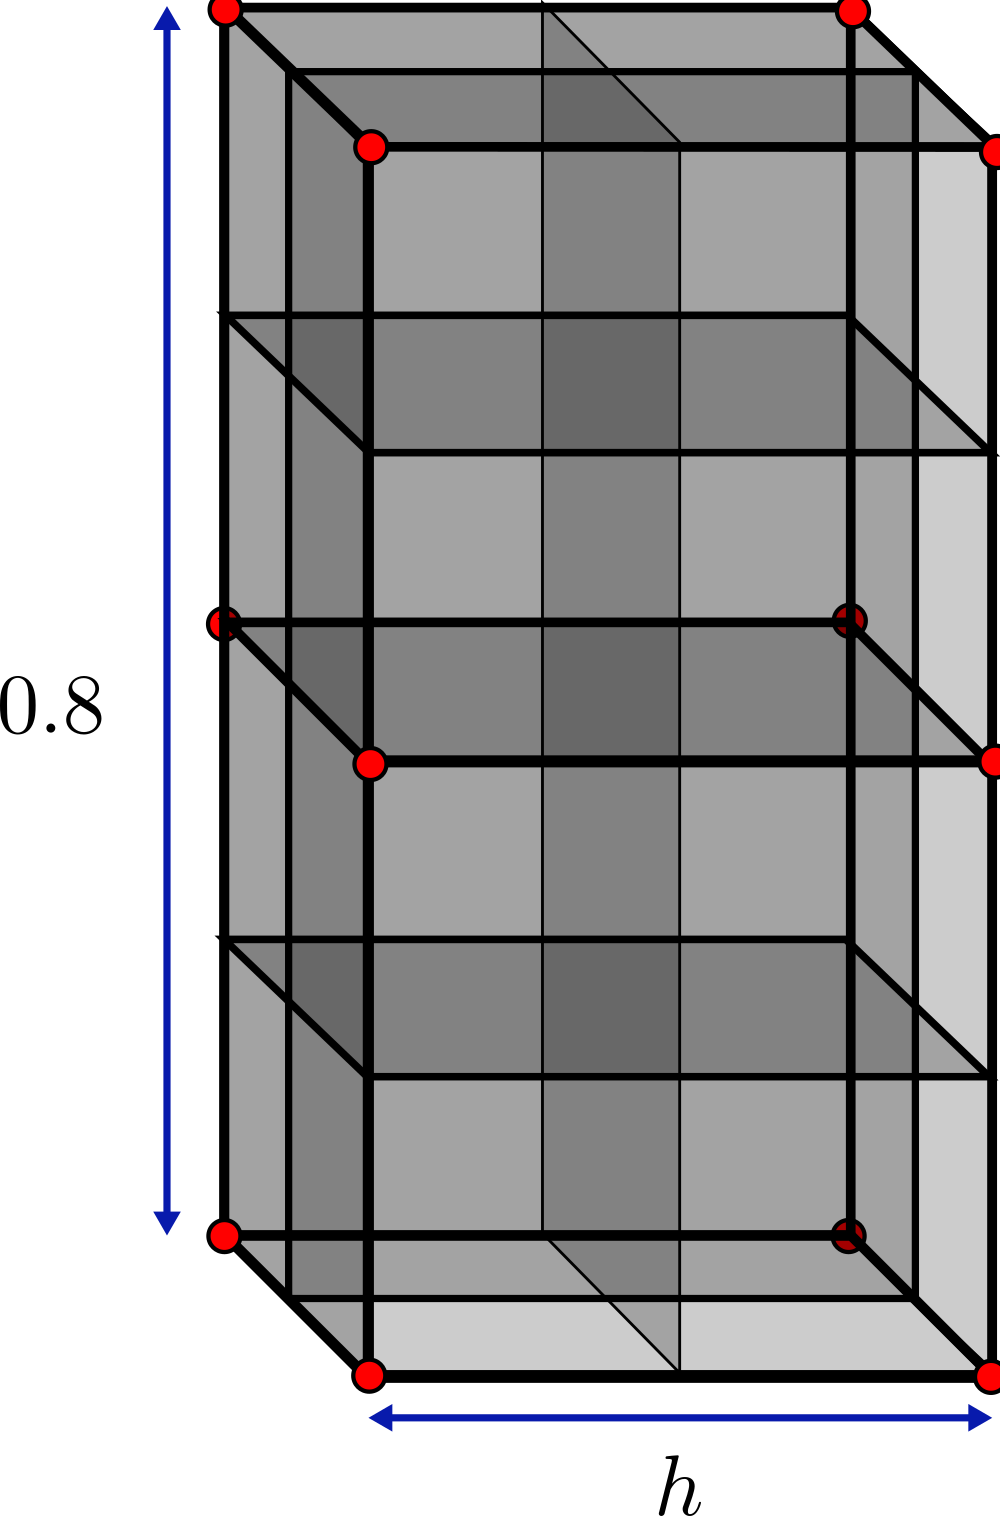
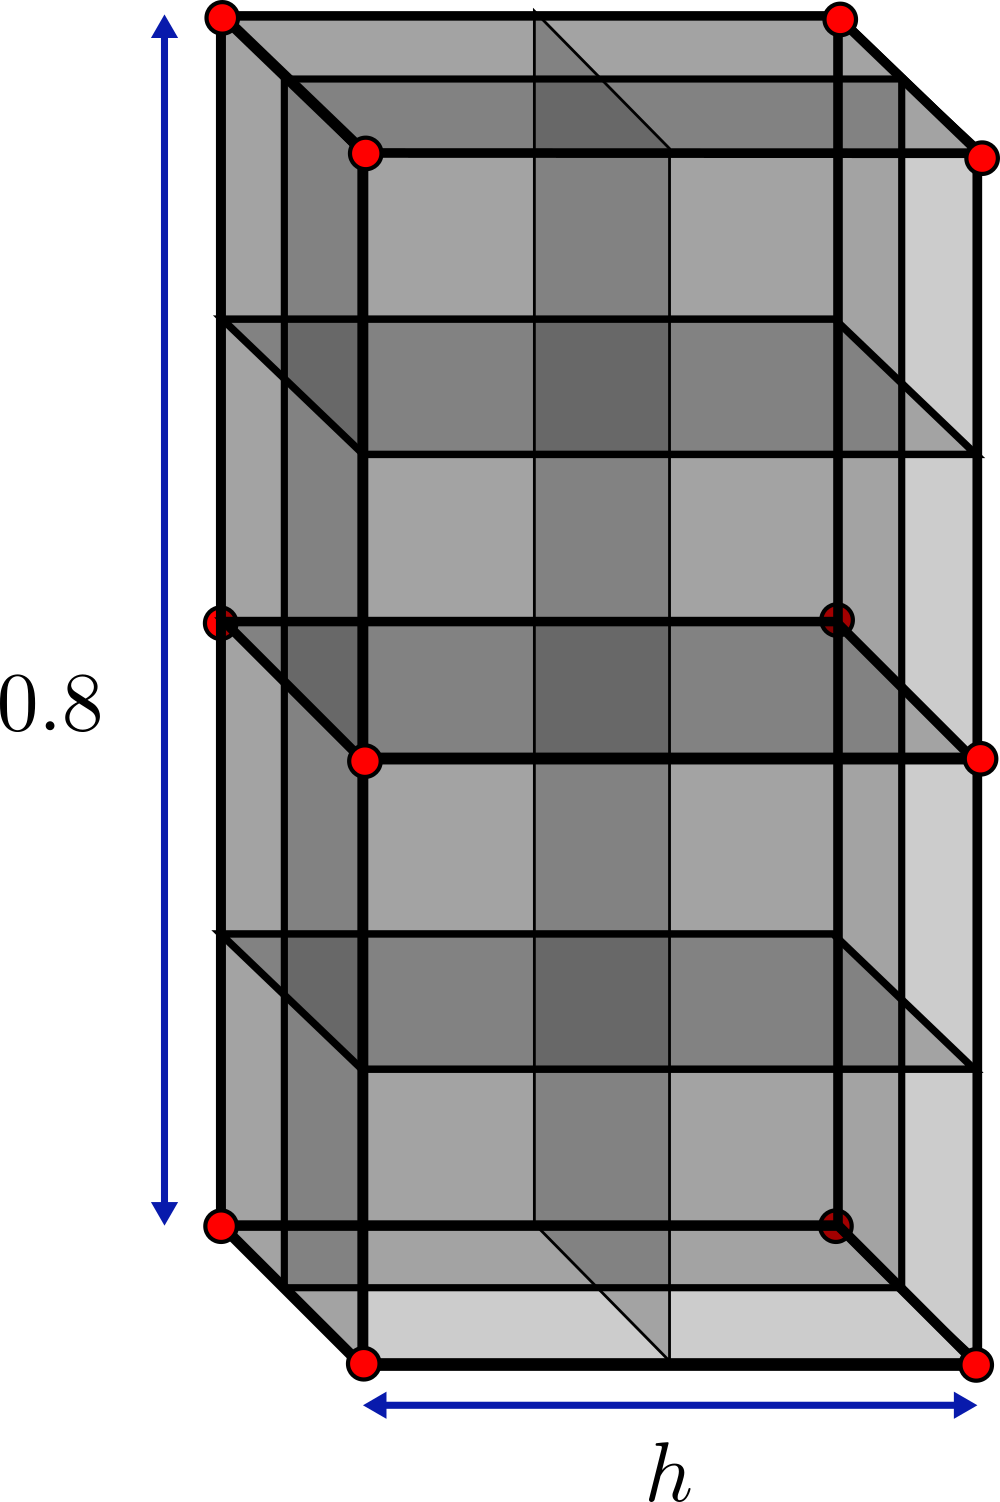
changing tutorial 1

Changed region(s): [[0.155, 0.0, 1.0, 0.9494], [0.0, 0.4288, 0.124, 0.49], [0.651, 0.9494, 0.713, 1.0]]

diff --git a/docs/docs/TutorialProblems/Tutorial_1.md b/docs/docs/TutorialProblems/Tutorial_1.md
@@ -3,12 +3,12 @@ hide:
   - toc
 ---
 
-# Tutorial 1: Self-weight column convergence
+# Tutorial 1: Self-weight column
 
 ## Introduction
-This quick start tutorial walks through the steps of running your first AMPSSIE problem. 
+This quick start tutorial walks through the steps of running your first AMPSSIE problem.
 
-The problem is a convergence analysis of a column deforming under self-weight. It is a simple problem that runs quickly and uses all components of the code that are used to create the [deformable body's equations to be solved.](../TechnicalReferences/StaticWeakForm.md)
+This tutorial analyses a column deforming under self-weight and solves the static weak-form [equations](../TechnicalReferences/StaticWeakForm.md). It is simple but introduces you to all components of the code: setting up, running and viewing the output data.
 
 This tutorial has four sections:
 
@@ -19,9 +19,7 @@ This tutorial has four sections:
 
 ## Problem description
 
-You will define the geometry, mesh, boundary conditions, material, and solver in the input file. All the inputs to the simulation are defined using the [`input_data.json` file format](../UsingTheSoftware/InputFormat.md).
-
-The values below give you a column that deforms significantly under self-weight. The deformation is large enough that the Generalised Interpolation Material Points (GIMPs) will traverse several elements and will interact with hanging nodes.
+You will define the geometry, mesh, boundary conditions, material, loading and solver in the input file. A reference for all input data can be found in the [`input_data.json` file format](../UsingTheSoftware/InputFormat.md).
 
 <div class="grid" markdown>
 
@@ -31,40 +29,34 @@ The values below give you a column that deforms significantly under self-weight.
 
 </div>
 
-*Figures reproduced from [@bird2026implicitoctreebasedadaptivematerial].*
+**Mesh:** The column is $0.4 \times 0.4 \times 0.8$ m see [](#fig-example-mesh).
 
-**Mesh:** Set the geometry to a $h \times h \times 0.8$ m column, i.e. $(x,y,z)\in[0,h]\times[0,h]\times[0,0.8]$ m. Start with $h = 0.4$ m. For the convergence study you will halve $h$ at each refinement step (see [](#fig-example-mesh)). The initial GIMP layout filling that mesh is shown in [](#fig-example-mesh-gimp). The element *size* $h$ is what you will plot later against the stress error:
-
-$$
-e_{\sigma} = \frac{1}{\sigma_g\, V_\Omega} \sum_{p \in P} \left| \sigma^z(z^0_p) - \sigma_p^z \right| V_p ,
-$$
-
-where:
-
-- $\sigma_g = \rho g L$ is the characteristic stress at the bottom of the domain, with $L = 0.8$ m the column height
-- $V_\Omega = L h^2$ is the total domain volume
-- $\sigma^z(z_p^0) = \rho g (L - z_p)$ is the analytical vertical stress
-- $z_p^0$ is the vertical position of the material point at time $t = 0$
-- $V_p$ is the GIMP volume
-
-**Initial GIMP distribution:** The mesh and initial GIMP distribution at $t=0$ do not normally coincide; however, for this problem the GIMPs will be distributed in the volume $V_\Omega = [0,h]\times[0,h]\times[0,0.8]$ m.
+**Initial GIMP distribution:** A $2\times2\times2$ grid of GIMPs is placed in each element; see [](#fig-example-mesh-gimp).
 
 **Boundary conditions:** Apply roller boundaries on the four sides and the base. Leave the top as a free surface. Fix every node in $x$ and $y$ so the problem stays one-dimensional.
 
 **Material:** Use a Hencky elastic model with constant parameters: Young's modulus $E = 10^3$ Pa, Poisson's ratio $\nu = 0$ and density $\rho = 50$ kg/m$^3$.
 
-These properties differ slightly from Charlton et al. [@charlton_implicit_2018] on purpose - they produce large enough deformation for GIMPs to span elements of different sizes, which is the point of the test.
-
 **Loading:** Apply gravity as a body force, $g_i = [0,\,0,\,-9.81]$ m/s$^2$.
 
 **Solver:** Use Newton-Raphson and ramp the load on incrementally over 20 load steps.
 
+**Analytical solution:** This problem has an analytical stress solution you can use to validate the numerical result:
+
+$$
+\sigma_g = \rho g (L - z_p),
+$$
+
+where:
+
+- $g = 9.81$ m/s$^2$ is the acceleration due to gravity
+- $L = 0.8$ m is the initial height of the domain
+- $z_p$ is the vertical position of the material point (m)
+
 ## Input setup
-The input file is a single JSON object - a human-readable, editable text file. The complete file for this problem can be found [here](Tutorial_1_input_data.md).
+The input file is a single JSON object - a human-readable, editable text file. The complete file for this problem can be found [`here`](Tutorial_1_input_data.md) and for all input settings see the [`input_data.json` file format](../UsingTheSoftware/InputFormat.md).
 
 This problem has six top-level sections, broken out below alongside the [Problem description](#problem-description). 
-
-Defaults (a face being free, a DOF being unconstrained, etc.) are not included in the file; only non-default settings are specified. See the [`input_data.json` file format](../UsingTheSoftware/InputFormat.md) for the full list of defaults.
 
 <div class="json-side-header">
 <div>Description</div>
@@ -77,11 +69,7 @@ Defaults (a face being free, a DOF being unconstrained, etc.) are not included i
 
 ### Mesh data
 
-The mesh matches the $h \times h \times 0.8$ m column, with $h = 0.4$ m for the first run.
-
-`dx refined` always gives the smallest elements in the domain.
-
-`Refinement type` is set to `column validation` for the bespoke refinement scheme for this problem; see [](#fig-example-mesh).
+The mesh matches the $0.4 \times 0.4 \times 0.8$ m column. The element size is defined with `dx refined` which gives the dimensions of the smallest elements.
 
 </div>
 
@@ -92,8 +80,7 @@ The mesh matches the $h \times h \times 0.8$ m column, with $h = 0.4$ m for the 
     "domain size x": 0.4,
     "domain size y": 0.4,
     "domain size z": 0.8,
-    "dx refined": 0.2,
-    "Refinement type": "column validation"
+    "dx refined": 0.4,
 }
 ```
 
@@ -107,9 +94,7 @@ The mesh matches the $h \times h \times 0.8$ m column, with $h = 0.4$ m for the 
 
 ### Initial GIMP distribution
 
-The `Initial GIMP distribution` is set to fill the whole domain and so is given the same parameters as the `Mesh data`.
-
-The default initial GIMP distribution is $2\times2\times2$ within each element. However, for this problem larger elements will have $4\times4\times4$ whilst the smaller elements have $2\times2\times2$. `Specialised distribution` is used to set up this distribution with `column validation`.
+The `Initial GIMP distribution` is set to fill the whole domain and so is given the same parameters as the `Mesh data`. The default initial GIMP distribution is a grid of 8 GIMPs, $2\times2\times2$ within each element, this is set with `number GIMP`.
 
 </div>
 
@@ -120,7 +105,7 @@ The default initial GIMP distribution is $2\times2\times2$ within each element. 
     "Initial GIMP distribution x": 0.4,
     "Initial GIMP distribution y": 0.4,
     "Initial GIMP distribution z": 0.8,
-    "Specialised distribution": "column validation"
+    "number GIMP": 2
     }
 ```
 
@@ -134,7 +119,7 @@ The default initial GIMP distribution is $2\times2\times2$ within each element. 
 
 ### Boundary conditions
 
-Rollers are applied on the four side faces and the base ($\pm x$, $\pm y$, $-z$). The top ($+z$) face is left as a free surface, which is the default and so does not appear in the file. Every node has its $x$ and $y$ degrees of freedom fixed to keep the problem one-dimensional.
+Rollers are applied on the four side faces and the base ($\pm x$, $\pm y$, $-z$). The top ($+z$) face is left as a free surface. Edges of the domain are by default free so `pos z-plane` does not appear in the file. Every node also has its $x$ and $y$ degrees of freedom fixed to keep the problem one-dimensional, the default is for the degree of freedom to be `free` so $z$ is not set.
 
 </div>
 
@@ -200,7 +185,7 @@ The self-weight load is ramped on quasi-statically over 20 increments using a Ne
 ```json
 "Solver": {
     "solve type": "static",
-    "load type": "force",
+    "load type": "body force",
     "number of increments": 20
 }
 ```
@@ -215,7 +200,7 @@ The self-weight load is ramped on quasi-statically over 20 increments using a Ne
 
 ### Output data
 
-VTU and VTK output is enabled for visualisation in [ParaView](https://www.paraview.org/) (or [VisIt](https://visit-dav.github.io/visit-website/)). The `text data` field tags the run as `column validation` for post-processing.
+VTU and VTK output is enabled for visualisation in [ParaView](https://www.paraview.org/) (or [VisIt](https://visit-dav.github.io/visit-website/)). The `text data` field outputs the vertical stress GIMP data with the deformed and initial height.
 
 </div>
 
@@ -225,7 +210,7 @@ VTU and VTK output is enabled for visualisation in [ParaView](https://www.paravi
 "Output Data": {
     "vtu data": "yes",
     "vtk data": "yes",
-    "text data": "column validation"
+    "text data": "self-weight column"
 }
 ```
 
@@ -238,12 +223,8 @@ There are several methods for [deploying](../UsingTheSoftware/DeployingTheSoftwa
 
 ## Viewing the results
 
-<div class="grid" markdown>
+The deformed column under self-weight is shown in [](#fig-gravity-displacement) at load steps 1, 10 and 20 of 20. The vertical displacement reaches its maximum at the top, as expected for a column compressed under its own weight; the stress field through the column can be compared against the analytical solution introduced above to validate the simulation.
 
-![Compression under self-weight, displacement plot of the GIMPs and mesh for steps 1, 10 and 20, of 20.](../../img/gravity_result.png){ #fig-gravity-displacement width="100%" }
+![Compression under self-weight: displacement plot of the GIMPs and mesh for steps 1, 10 and 20 of 20.](../../img/gravity_result.png){ #fig-gravity-displacement width="70%" }
 
-![Compression under self-weight, convergence of the error with mesh refinement.](../../img/convergence_gravity.png){ #fig-gravity-convergence width="100%" }
-
-</div>
-
-*Figures reproduced from [@bird2026implicitoctreebasedadaptivematerial].*
+*Figure reproduced from [@bird2026implicitoctreebasedadaptivematerial].*

diff --git a/docs/docs/TutorialProblems/TutorialProblems.md b/docs/docs/TutorialProblems/TutorialProblems.md
@@ -8,7 +8,7 @@ The recommended order is top to bottom - each tutorial reuses material settings,
 
 Quasi-static problems solved with Newton-Raphson over a small number of load increments.
 
-- **[Tutorial 1 - Self-weight column convergence](Tutorial_1.md)** - A homogeneous elastic column compressed by gravity. The simplest problem in the set: no contact, no plasticity, no adaptive refinement following a body. Exercises the static weak form, the GIMP discretisation and the convergence behaviour with mesh refinement.
+- **[Tutorial 1 - Self-weight column](Tutorial_1.md)** - A homogeneous elastic column compressed by gravity. The simplest problem in the set: no contact, no plasticity, no adaptive refinement following a body. Exercises the static weak form and the GIMP discretisation, with an analytical stress solution to validate the numerical result against.
 - **[Tutorial 2 - Compaction via a rigid body](Tutorial_2.md)** - A cube compressed by a rigid plate through 25% of its height. Introduces normal-contact penalty enforcement and the hanging-node formulation around the contact face, with elasticity holding everything else constant.
 - **[Tutorial 3 - Vertical penetration (CPT)](Tutorial_3.md)** - A quarter-symmetric cone penetration test in dry sand. Adds adaptive octree refinement that follows the cone, frictional contact and a Hencky hyperelastic-perfectly plastic constitutive model calibrated to centrifuge data.
 - **[Tutorial 4 - Plough (horizontal penetration)](Tutorial_4.md)** - A seabed cable plough dragged through dry sand. The most geometrically complex problem: a non-convex rigid body, a Signorini exit-face condition, and adaptive refinement that travels with the plough across 20 m of horizontal travel.
